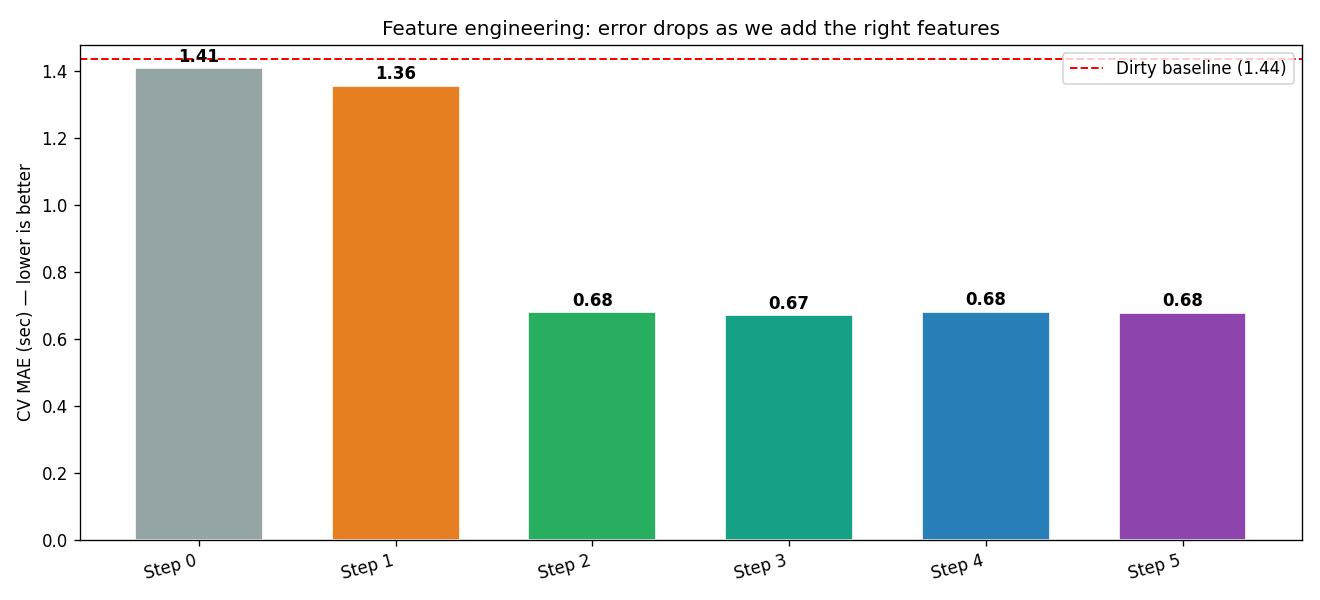
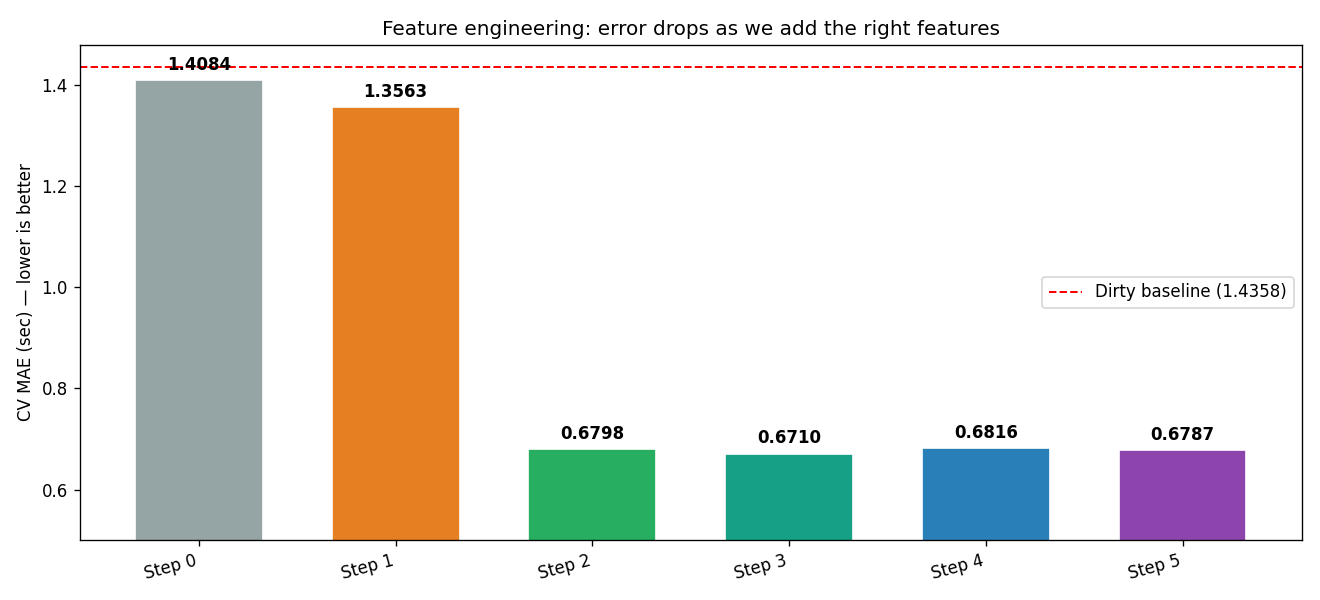
- README.md update; - markdown update in notebooks; - feature_progression.png rescaling

diff --git a/README.md b/README.md
@@ -1,16 +1,14 @@
-# CarTuner AI — Automotive Performance Dataset & Data-Preparation Pipeline
+# CarTuner AI - Automotive Performance Dataset & Data-Preparation Pipeline
 
 A documented dataset and end-to-end data-preparation pipeline for predicting vehicle
-performance from specifications. Built for the **Data Preparation for Artificial
-Intelligence** course, where the focus is *data-centric AI*: the model is deliberately
-simple (linear regression), and the story is how data preparation — not model choice —
-drives prediction quality.
+performance from specifications. Built for the *Data Preparation for Artificial Intelligence*
+course, where the focus is data-centric AI: the model is deliberately simple (linear
+regression), and the point is how data preparation, not model choice, drives prediction quality.
 
-> **Headline result:** on the same data and the same linear model, careful cleaning and
-> feature engineering cut the prediction error nearly in half — cross-validated MAE from
-> **1.44 s → 0.68 s**, R² from **0.72 → 0.91**. The single biggest gain came from one
-> feature (`log(power_to_weight)`) that matched the data's representation to the underlying
-> physics.
+> Main result: on the same data and the same linear model, cleaning and feature engineering
+> cut the prediction error nearly in half - cross-validated MAE from 1.44 s to 0.68 s, and R²
+> from 0.72 to 0.91. Most of that gain came from a single feature, `log(power_to_weight)`,
+> which matches the data's representation to the underlying physics.
 
 ---
 
@@ -18,11 +16,11 @@ drives prediction quality.
 
 The project builds three related tables and demonstrates two prediction tasks:
 
-- **Model A — stock performance** (the main demonstration): predict a car's 0–100 km/h time
+- Model A (stock performance) - the main demonstration. Predicts a car's 0–100 km/h time
   from its spec sheet. Runs on real, scraped data and carries the full data-prep journey.
-- **Model B — post-modification performance** (the project's goal): predict a car's 0–100
-  time *after* a tuning modification. Requires joining all three tables, and is presented
-  honestly as a pipeline proof-of-concept (see [Known limitations](#known-limitations--assumptions)).
+- Model B (post-modification performance) - the project's goal. Predicts a car's 0–100 time
+  after a tuning modification. Requires joining all three tables, and is presented as a
+  pipeline proof-of-concept (see [Known limitations](#known-limitations--assumptions)).
 
 ---
 
@@ -46,8 +44,8 @@ The `builds` table combines three sources of differing quality, each tagged with
 | `synthetic` | 300 | 0.40 | physics-generated (see limitations) |
 
 A larger, fully-synthetic augmentation (14,913 rows) is kept separately in
-`data/raw/builds_raw_augmented.csv` / the `builds_augmented` DB table. It is **not** used for
-modelling — it exists to show what naïve over-augmentation produces.
+`data/raw/builds_raw_augmented.csv` and the `builds_augmented` DB table. It is not used for
+modelling; we keep it to show what naive over-augmentation produces.
 
 The full data dictionary (column names, units, keys) is in
 [`schema/schema.sql`](schema/schema.sql).
@@ -74,17 +72,18 @@ cartuner-ai/
 │   ├── 01_collection.ipynb      # data collection (scraping)
 │   ├── 02_baseline_dirty.ipynb  # baseline model on raw data
 │   ├── 03_cleaning.ipynb        # audit, MCAR/MAR/MNAR, cleaning
-│   ├── 04_features.ipynb        # feature engineering (the big win)
+│   ├── 04_features.ipynb        # feature engineering (the main gain)
 │   └── 05_builds_analysis.ipynb # 3-table integration + Model B
 ├── src/
 │   ├── scraper.py               # single-page parkers/APR scraper (demo)
 │   ├── scraper_cars.py          # full parkers crawler (produced cars_raw)
 │   ├── scraper_mods.py          # modifications scraper
-│   ├── scraper_builds.py        # builds scraper (dragtimes/fastestlaps)
+│   ├── scraper_builds.py        # builds scraper (dragtimes)
 │   └── build_db.py              # assembles cartuner.db from the CSVs
 ├── schema/
 │   └── schema.sql               # data dictionary for the three tables
-├── docs/                        # exported figures used in the report
+├── docs/                        # exported figures
+│   └── finals/                  # final presentation (PDF)
 └── requirements.txt
 ```
 
@@ -97,72 +96,76 @@ from raw data to a feature-engineered dataset and two models.
 
 | # | Notebook | What it does | Key output |
 |---|----------|--------------|-----------|
-| 01 | `01_collection` | Demonstrates the web-scraping approach used to gather specs and mods | raw CSVs |
+| 01 | `01_collection` | Demo of the scraping approach only (not the actual run, see note below) | - |
 | 02 | `02_baseline_dirty` | Trains the model on raw data with minimal preprocessing, to set a floor | `baseline_scores.json` |
 | 03 | `03_cleaning` | Audits the data, classifies missingness (MCAR/MAR/MNAR), cleans and imputes | `cars_clean.csv` |
 | 04 | `04_features` | Engineers physics-informed features, one at a time, measuring each | `cars_features.csv` |
-| 05 | `05_builds_analysis` | Audits the builds table, resolves entities, joins all three tables, builds Model B | — |
+| 05 | `05_builds_analysis` | Audits the builds table, resolves entities, joins all three tables, builds Model B | - |
 
-**Metric:** all notebooks report **5-fold cross-validated MAE** (mean absolute error, in
-seconds — lower is better) as the honest headline number, alongside R².
+Metric: all notebooks report 5-fold cross-validated MAE (mean absolute error, in seconds,
+lower is better) as the headline number, alongside R².
+
+Note on notebook 01: it is an early demonstration of the scraping approach, not the step that
+produced the dataset. The real tables came from the crawlers in `src/scraper_cars.py`,
+`scraper_mods.py`, and `scraper_builds.py`. Do not run notebook 01 top-to-bottom: it writes to
+`data/raw/` and would overwrite the real CSVs with a small sample.
 
 ---
 
 ## Key results
 
-### Model A — stock 0–100 km/h prediction
+### Model A - stock 0–100 km/h prediction
 
 | Stage | CV MAE (s) | R² | What changed |
 |-------|-----------:|---:|--------------|
 | Dirty baseline (nb 02) | 1.44 | 0.72 | raw data, raw features |
-| After cleaning (nb 03) | 1.43 | 0.73 | nulls fixed — *barely moves the score* |
-| + `log(power_to_weight)` (nb 04) | 0.68 | 0.91 | linearised the power law — **the breakthrough** |
+| After cleaning (nb 03) | 1.43 | 0.73 | nulls fixed, barely moves the score |
+| + `log(power_to_weight)` (nb 04) | 0.68 | 0.91 | linearised the power law, the key step |
 | Final (all features, nb 04) | 0.68 | 0.91 | diminishing returns after the key feature |
 
-The lesson: **cleaning made the data correct; feature engineering made it useful.** Adding
-the *raw* power-to-weight ratio actually hurt (the relationship is non-linear); taking its
-logarithm turned the curve into a straight line the model could fit.
+What this shows: cleaning made the data correct, feature engineering made it useful. Adding
+the raw power-to-weight ratio actually hurt (the relationship is non-linear); taking its
+logarithm brought it much closer to a straight line the model could fit.
 
-### Model B — post-modification prediction
+### Model B - post-modification prediction
 
-Joining `builds ⋈ cars ⋈ modifications` and training on the synthetic builds yields a
-near-perfect CV R² of **0.997** — which the analysis flags as a **warning, not a success**:
-the synthetic targets were generated by a physics formula, so the model is reverse-engineering
-that formula rather than learning from reality. This is the data-centric / GIGO lesson made
-concrete.
+Joining `builds ⋈ cars ⋈ modifications` and training on the synthetic builds gives a
+near-perfect CV R² of 0.997, which we flag as a red flag rather than a success: the synthetic
+targets were generated by a physics formula, so the model reverse-engineers that formula
+rather than learning from reality. This is the data-centric / GIGO lesson made concrete.
 
 ---
 
 ## Data sources
 
-- **Stock specs:** [parkers.co.uk](https://www.parkers.co.uk) — structured UK-market spec pages.
-- **Modifications:** curated catalogue informed by APR (goapr.com) and RaceChip published figures.
-- **Builds:** community tuning forums (hand-collected), [dragtimes.com](https://www.dragtimes.com)
+- Stock specs: [parkers.co.uk](https://www.parkers.co.uk), structured UK-market spec pages.
+- Modifications: curated catalogue informed by APR (goapr.com) and RaceChip published figures.
+- Builds: community tuning forums (hand-collected), [dragtimes.com](https://www.dragtimes.com)
   ¼-mile timeslips, and physics-based synthesis.
 
 ---
 
 ## Known limitations & assumptions
 
-Documented honestly, as required for a data-preparation deliverable:
-
-1. **0–100 km/h is approximated from 0–60 mph.** Parkers publishes 0–60 mph; we store it as
+1. 0–100 km/h is approximated from 0–60 mph. Parkers publishes 0–60 mph; we store it as
    `zero_hundred_stock`. The two differ by roughly 0.1–0.2 s (100 km/h ≈ 62 mph), so all stock
-   times are marginally optimistic versus a true 0–100 km/h figure. Consistent across the
-   dataset, so it does not affect *relative* comparisons.
-2. **Synthetic builds dominate the builds table (300 of 372).** They are clearly labelled
+   times are marginally optimistic versus a true 0–100 km/h figure. It is consistent across the
+   dataset, so it does not affect relative comparisons.
+2. Synthetic builds dominate the builds table (300 of 372). They are clearly labelled
    (`source_type = 'synthetic'`, `confidence = 0.40`) and generated by
-   `t_mod = t_stock × (hp_stock / hp_mod)^0.6` with ±5 % noise. Any model trained on them is
-   self-consistent by construction — see Model B above.
-3. **Foreign keys only link cleanly for synthetic builds.** Real builds required entity
-   resolution (make-name normalisation). After it, all 30 community and 37/42 dragtimes rows
-   match the cars table; the rest (Tesla, Oldsmobile, and a Buell *motorcycle*) are genuinely
-   absent and left unlinked rather than forced.
-4. **Mixed horsepower conventions.** `cars.stock_hp` is manufacturer crank bhp; forum
+   `t_mod = t_stock × (hp_stock / hp_mod)^0.6` with ±5% noise. Any model trained on them is
+   self-consistent because of how they were built (see Model B above).
+3. Foreign keys only link cleanly for synthetic builds. Real builds needed entity resolution
+   (make-name normalisation). After it, all 30 community and 37/42 dragtimes rows match the
+   cars table; the rest (Tesla, Oldsmobile, and a Buell motorcycle) are genuinely absent and
+   left unlinked rather than forced.
+4. Mixed horsepower conventions. `cars.stock_hp` is manufacturer crank bhp; forum
    `builds.result_hp` is typically wheel hp. They are not combined in a single calculation,
    but the distinction matters for any future cross-table hp modelling.
-5. **The "dirty" baseline is minimally preprocessed, not literally raw** — it drops rows with a
-   missing target and median-fills the rest, the bare minimum to train at all.
+5. The "dirty" baseline is minimally preprocessed, not literally raw. It drops rows with a
+   missing target and median-fills the rest, the bare minimum needed to train at all.
+6. Electric vehicles get `cylinders = 0` and `displacement_cc = 0` (structural, not missing),
+   and an `is_ev` flag, rather than median-imputed engine values.
 
 ---
 
@@ -180,21 +183,21 @@ pip install -r requirements.txt
 python3 src/build_db.py
 
 # 3. Run the notebooks in order
-jupyter lab            # then run 01 → 05
+jupyter lab            # then run 01 -> 05
 # or headless:
 for nb in 02_baseline_dirty 03_cleaning 04_features 05_builds_analysis; do
     jupyter nbconvert --to notebook --execute --inplace notebooks/$nb.ipynb
 done
 ```
 
-Notebooks 03–05 read the raw CSVs and `baseline_scores.json`, so run **02 before 03/04** to
-keep the comparison numbers current after any data change.
+Notebooks 03–05 read the raw CSVs and `baseline_scores.json`, so run 02 before 03/04 to keep
+the comparison numbers current after any data change.
 
 ---
 
 ## Future work
 
 - Train a gradient-boosted regression model on the feature-engineered dataset for comparison.
-- Collect more **real** build records to replace the synthetic majority and properly validate Model B.
-- Build the constraint-satisfaction recommendation layer ("which mods reach a target 0–100?").
+- Collect more real build records to replace the synthetic majority and properly validate Model B.
+- Build the recommendation layer ("which mods reach a target 0–100 time?").
 - Normalise `modifications.compatible_makes` from a delimited string into a proper relation.
